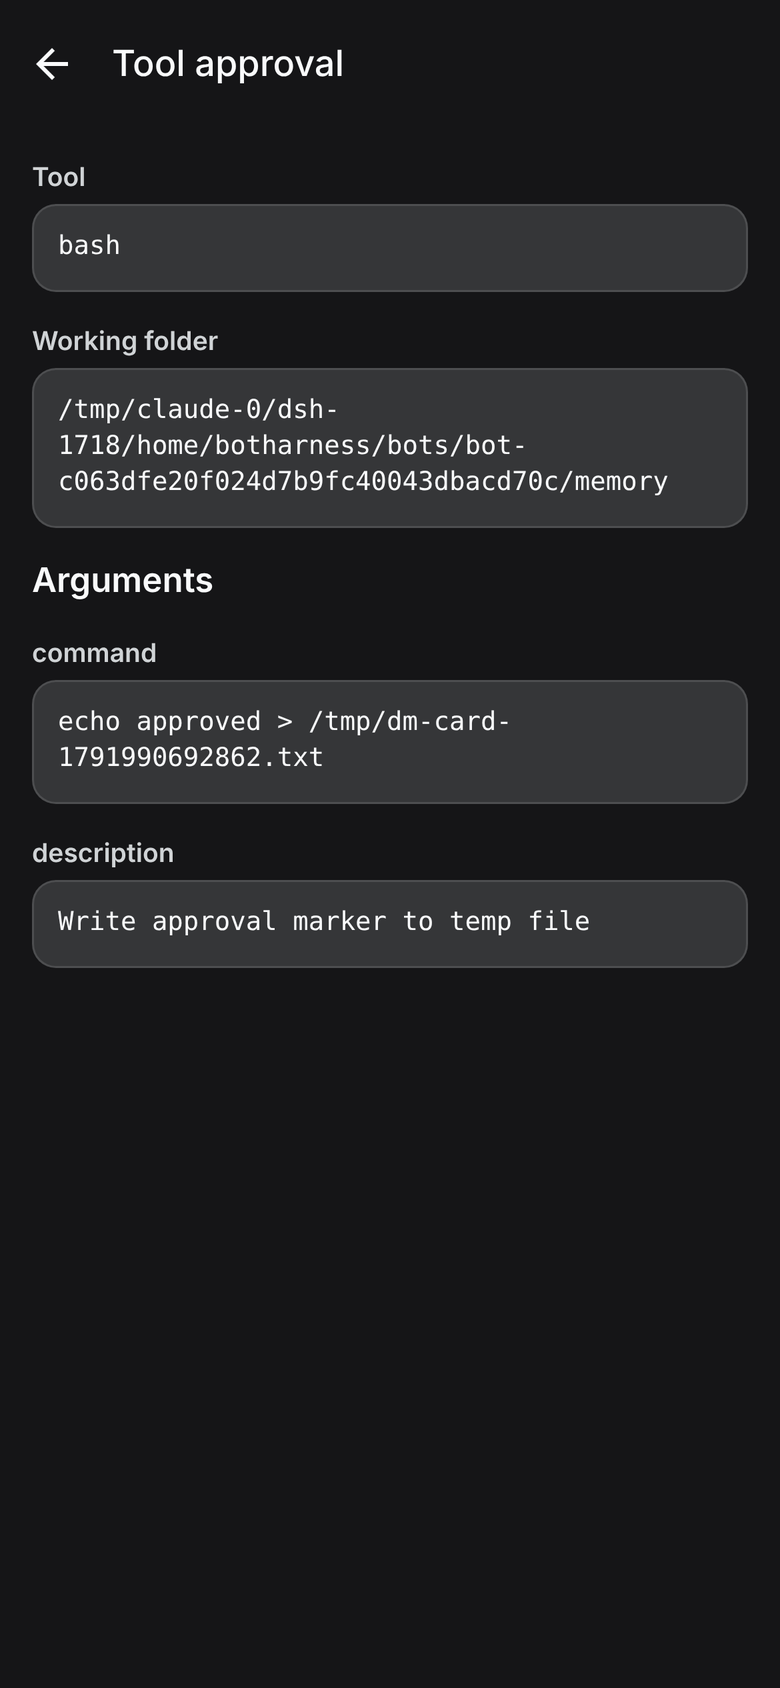
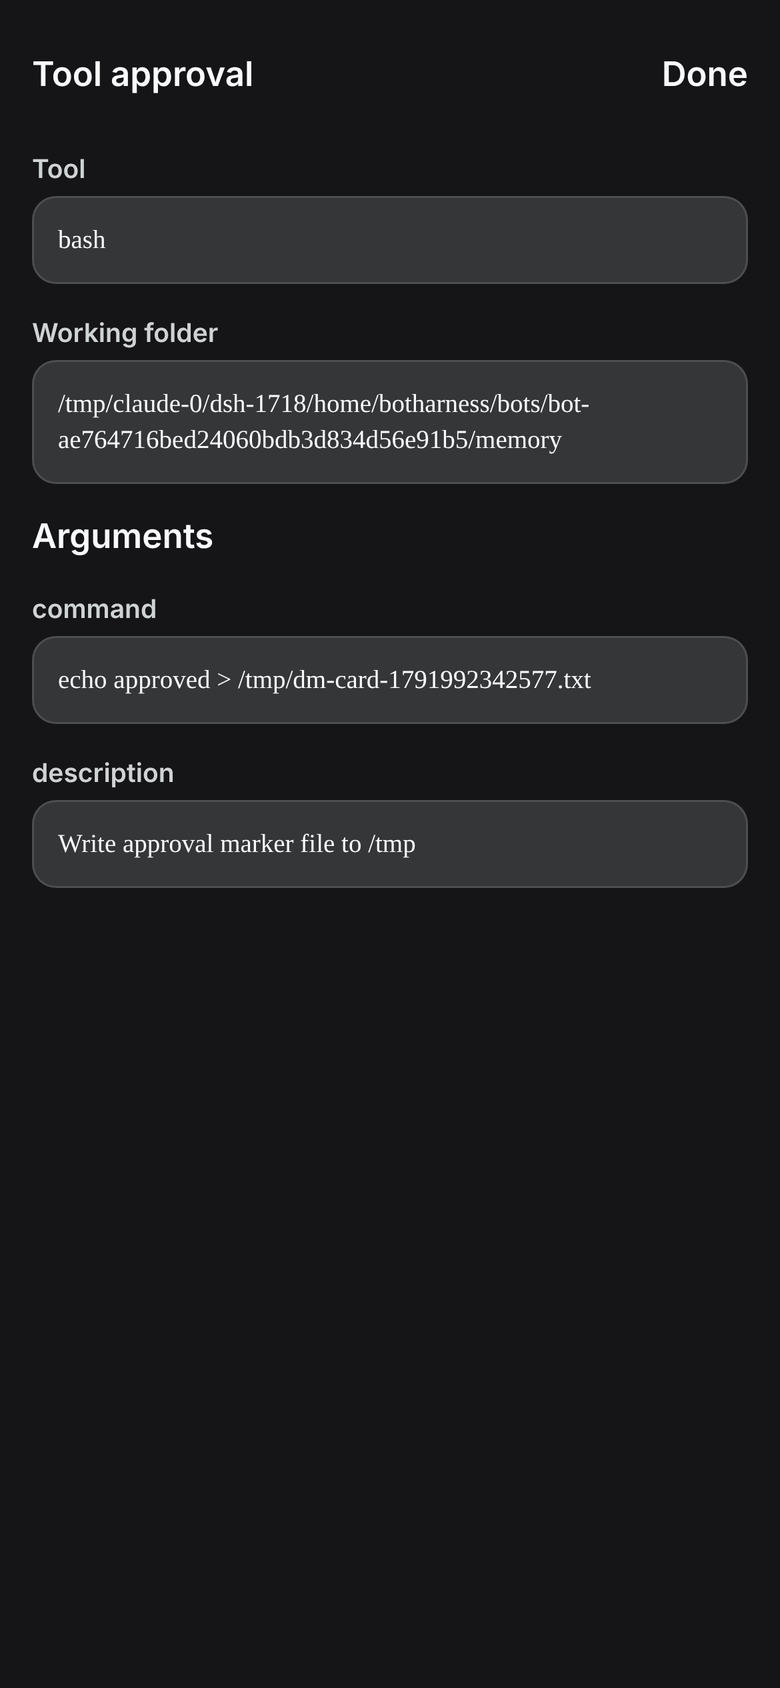
Give the approval details sheet its own title and Done button, and a mono font token (#1718)
Android form sheets show no native header, so the sheet renders its title
and a Done button itself on every platform.

Claude-Session: https://claude.ai/code/session_015kw3ooQtQCY5L3AotfmGsa

diff --git a/apps/mobile/app/approval.tsx b/apps/mobile/app/approval.tsx
@@ -1,6 +1,6 @@
-import { Stack, useLocalSearchParams } from 'expo-router';
+import { useLocalSearchParams, useRouter } from 'expo-router';
 import { useCallback, useState } from 'react';
-import { ActivityIndicator, Platform, ScrollView, View } from 'react-native';
+import { ActivityIndicator, Pressable, ScrollView, View } from 'react-native';
 
 import { useHostSession } from '../src/host/host-session';
 import { loadApproval, readableInput, type ApprovalRequest } from '../src/host/requests';
@@ -11,9 +11,41 @@ import { Button } from '../src/ui/primitives/button';
 import { Text } from '../src/ui/primitives/text';
 import { t } from '../src/ui/strings';
 
-const MONO = Platform.select({ ios: 'Menlo', default: 'monospace' });
-
 type Params = { channelId: string; messageId: string; botSlug: string };
+
+function SheetHeader({ title, onDone }: { title: string; onDone(): void }) {
+  const theme = useDesignTheme();
+  return (
+    <View
+      style={{
+        flexDirection: 'row',
+        alignItems: 'center',
+        justifyContent: 'space-between',
+        gap: space.x4,
+        paddingLeft: space.x5,
+        paddingTop: space.x5,
+      }}
+    >
+      <Text variant="title" numberOfLines={1} style={{ flexShrink: 1 }}>
+        {title}
+      </Text>
+      <Pressable
+        accessibilityRole="button"
+        accessibilityLabel={t.done}
+        onPress={onDone}
+        style={{
+          minHeight: theme.touch,
+          minWidth: theme.touch,
+          paddingHorizontal: space.x5,
+          alignItems: 'center',
+          justifyContent: 'center',
+        }}
+      >
+        <Text strong>{t.done}</Text>
+      </Pressable>
+    </View>
+  );
+}
 
 function Field({ label, value }: { label: string; value: string }) {
   const theme = useDesignTheme();
@@ -33,7 +65,7 @@ function Field({ label, value }: { label: string; value: string }) {
           padding: space.x4,
         }}
       >
-        <Text selectable variant="meta" style={{ fontFamily: MONO }}>
+        <Text selectable variant="meta" style={{ fontFamily: theme.mono }}>
           {value}
         </Text>
       </View>
@@ -45,6 +77,7 @@ export default function ApprovalDetailsScreen() {
   const theme = useDesignTheme();
   const { channelId, messageId, botSlug } = useLocalSearchParams<Params>();
   const { client } = useHostSession();
+  const router = useRouter();
   const [state, setState] = useState<
     { kind: 'loading' } | { kind: 'failed' } | { kind: 'ready'; request: ApprovalRequest }
   >({ kind: 'loading' });
@@ -64,7 +97,7 @@ export default function ApprovalDetailsScreen() {
 
   return (
     <View ref={mount} style={{ flex: 1, backgroundColor: theme.color.base }}>
-      <Stack.Screen options={{ title: t.kind['tool-approval']! }} />
+      <SheetHeader title={t.kind['tool-approval']!} onDone={() => router.back()} />
       {state.kind === 'loading' ? (
         <View style={{ padding: space.x6, alignItems: 'center' }}>
           <ActivityIndicator />

diff --git a/apps/mobile/src/ui/chat/approval-card.tsx b/apps/mobile/src/ui/chat/approval-card.tsx
@@ -1,5 +1,5 @@
 import { useCallback, useRef, useState } from 'react';
-import { Platform, View } from 'react-native';
+import { View } from 'react-native';
 
 import type { CardResolution } from '../../host/conversation';
 import {
@@ -18,8 +18,6 @@ import { Text } from '../primitives/text';
 import { errorText } from '../request-parts';
 import { t } from '../strings';
 import { ActionCard, CardButtons, CardLine, CardLink, type CardLineTone } from './action-card';
-
-const MONO = Platform.select({ ios: 'Menlo', default: 'monospace' });
 
 export interface ApprovalCardPort {
   load(): Promise<ApprovalRequest>;
@@ -181,7 +179,12 @@ export function ApprovalCard({
                   paddingVertical: space.x3,
                 }}
               >
-                <Text selectable variant="meta" numberOfLines={4} style={{ fontFamily: MONO }}>
+                <Text
+                  selectable
+                  variant="meta"
+                  numberOfLines={4}
+                  style={{ fontFamily: theme.mono }}
+                >
                   {first.value}
                 </Text>
               </View>

diff --git a/apps/mobile/src/ui/design/resolve-theme.ts b/apps/mobile/src/ui/design/resolve-theme.ts
@@ -1,5 +1,5 @@
 import { palette } from './palette.generated';
-import { touch, typeScale, weight, type PlatformOS } from './tokens';
+import { mono, touch, typeScale, weight, type PlatformOS } from './tokens';
 
 export type ColorRole = keyof typeof palette.light;
 export type ColorScheme = 'light' | 'dark';
@@ -15,6 +15,7 @@ export type DesignTheme = {
   type: (typeof typeScale)[PlatformOS];
   weight: (typeof weight)[PlatformOS];
   touch: number;
+  mono: string;
 };
 
 const HEX = /^#([0-9a-f]{6})$/i;
@@ -122,5 +123,12 @@ export function resolveTheme(
   const scheme =
     appearance.scheme === undefined || appearance.scheme === 'system' ? system : appearance.scheme;
   const color = withAccent({ ...palette[scheme] }, appearance.accent);
-  return { scheme, color, type: typeScale[os], weight: weight[os], touch: touch[os] };
+  return {
+    scheme,
+    color,
+    type: typeScale[os],
+    weight: weight[os],
+    touch: touch[os],
+    mono: mono[os],
+  };
 }

diff --git a/apps/mobile/test/design-tokens.test.ts b/apps/mobile/test/design-tokens.test.ts
@@ -75,10 +75,12 @@ describe('resolveTheme', () => {
   it('uses each platform type and touch scale', () => {
     expect(resolveTheme('light', {}, 'ios')).toMatchObject({
       touch: 44,
+      mono: 'Menlo',
       type: { body: { size: 17 } },
     });
     expect(resolveTheme('light', {}, 'android')).toMatchObject({
       touch: 48,
+      mono: 'monospace',
       type: { body: { size: 14 } },
     });
   });

diff --git a/apps/mobile/src/ui/design/tokens.ts b/apps/mobile/src/ui/design/tokens.ts
@@ -47,6 +47,11 @@ export const weight: Record<PlatformOS, { regular: '400'; strong: '500' | '600' 
   android: { regular: '400', strong: '500' },
 };
 
+export const mono: Record<PlatformOS, string> = {
+  ios: 'Menlo',
+  android: 'monospace',
+};
+
 export const touch: Record<PlatformOS, number> = {
   ios: 44,
   android: 48,

diff --git a/apps/mobile/app/_layout.tsx b/apps/mobile/app/_layout.tsx
@@ -30,6 +30,7 @@ export default function RootLayout() {
             name="approval"
             options={{
               presentation: 'formSheet',
+              headerShown: false,
               sheetAllowedDetents: [0.6, 1],
               sheetGrabberVisible: true,
             }}
